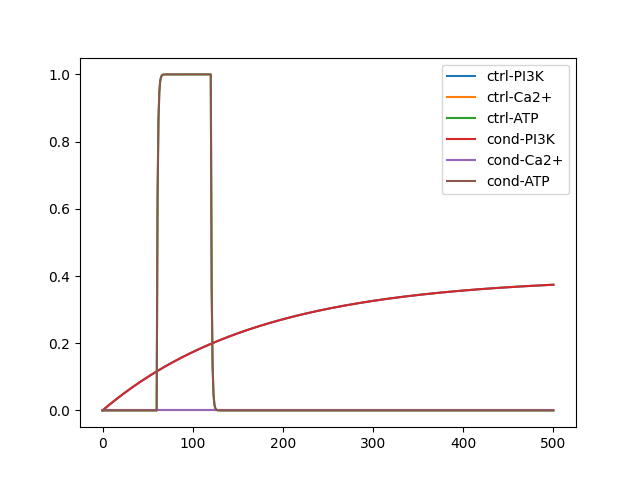
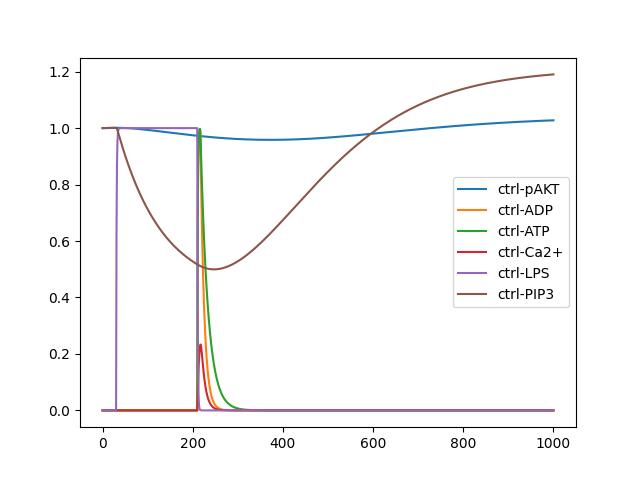
adjusted ca integraation

diff --git a/user_src/testing_calcium.py b/user_src/testing_calcium.py
@@ -37,7 +37,7 @@ if __name__ == "__main__":
     network = Network("example", rates, interactions, substrates)
     
     # visualize network ordinary differential equations
-    time = np.linspace(0, 500, num=501)
+    time = np.linspace(0, 1000, num=1001)
     derivatives = network.get_representation_dydt()
     for l, t in derivatives.items():
         print(f"{l} = {t}")
@@ -49,9 +49,9 @@ if __name__ == "__main__":
             parameters = json.load(fitted_params)
         network.set_parameters(list(parameters.values()), list(parameters.keys()))
 
-    amts = [0]
-    ranges = [[60,120]]
-    initials = [[1, 0, 1, 0, 1, 0, 0, 1, 1, 0, 0, 0, 0, 0, 0, 0, 0, 1, 0, 0]]
+    amts = [1.0]
+    ranges = [[210,390]]
+    initials = [[1, 0, 1, 0, 1, 0, 0, 1, 1, 0, 0, 0, 0, 0, 0, 0, 0, 1, 0, 0, 0]]
     combos = list(P(amts, ranges))
     combo_figure = plt.figure()
     for i, combo in tqdm(enumerate(combos), total=len(amts)*len(ranges)):
@@ -59,16 +59,14 @@ if __name__ == "__main__":
         network.substrates["Ca2+"].time_ranges = [combo[1]]
 
     # check post-training training error
-        mean_y_regular = network.graph_distributions(time, args.number, normalize=False, initials=initials)
+        mean_y_regular = network.graph_distributions(time, args.number, normalize=True, initials=initials)
         print(f"Originally s3 was: {network.parameters['s3'].value}")
-        network.parameters["s3"].value = 20
-        mean_y_decrP2Y12 = network.graph_distributions(time, args.number, normalize=False, initials=initials)
+        mean_y_decrP2Y12 = network.graph_distributions(time, args.number, normalize=True, initials=initials)
         print(f"Adjusted s3 was: {network.parameters['s3'].value}")
-        indices = [list(network.substrates.keys()).index("PI3K"), list(network.substrates.keys()).index("Ca2+"), list(network.substrates.keys()).index("ATP")]
+        indices = [list(network.substrates.keys()).index("pAKT"), list(network.substrates.keys()).index("ATP"), list(network.substrates.keys()).index("Ca2+"), list(network.substrates.keys()).index("ADP"), list(network.substrates.keys()).index("LPS"), list(network.substrates.keys()).index("PIP3")]
         plt.plot(range(len(mean_y_regular[:,indices[0]])), mean_y_regular[:,indices])
-        plt.plot(range(len(mean_y_decrP2Y12[:,indices[0]])), mean_y_decrP2Y12[:,indices])
-    plt.legend(["ctrl-PI3K", "ctrl-Ca2+", "ctrl-ATP", "cond-PI3K", "cond-Ca2+", "cond-ATP"])
+        # plt.plot(range(len(mean_y_decrP2Y12[:,indices[0]])), mean_y_decrP2Y12[:,indices])
+    plt.legend(["ctrl-pAKT", "ctrl-ADP", "ctrl-ATP", "ctrl-Ca2+", "ctrl-LPS", "ctrl-PIP3"])
     combo_figure.savefig(os.path.join(args.output, "./combo_fig.png"))
         # temp_df = pd.DataFrame(mean_y, columns=list(network.substrates.keys()))
         # temp_df.to_csv(os.path.join(args.output, f"atp_{combo[0]}_{combo[1]}"))
-        

diff --git a/src/network.py b/src/network.py
@@ -220,13 +220,17 @@ class Network:
                 dydt[key] = overall
                 del dydt[substrate_id]
             else:
-                pass
-
+                key = f"d[{substrate_id}]/dt"
+                del dydt[substrate_id]
+                if substrate_of_interest.r != None:
+                    dydt[key] = f"-{substrate_of_interest.r.identifier}[{substrate_id}]"
+                else:
+                    dydt[key] = 0
         return dydt
     
     def graph(self, time, normalize=False, substrates_to_plot=[], path="./figure.png", output_figure=False):
         if normalize:
-            normalize_time = np.linspace(0, 500, 501)
+            normalize_time = np.linspace(0, 1000, 1001)
             stimuli_ranges = []
             for s in self.substrates.values():
                 stimuli_ranges.append(s.time_ranges)
@@ -239,7 +243,7 @@ class Network:
             y = folds_y.copy()
             for t in range(y.shape[0]):
                 for index, s in enumerate(self.substrates.values()):
-                    if s.__getattribute__("type") == "non-stimulus":
+                    if s.__getattribute__("type") == "non-stimulus" and probe[index] > 0:
                         y[t,index] = folds_y[t,index]/probe[index]
                     else:
                         y[t, index] = folds_y[t,index]

diff --git a/src/parse.py b/src/parse.py
@@ -3,6 +3,8 @@ from src.rate import Rate
 from src.interaction import Interaction
 from src.substrate import Substrate
 
+# adding two values into one with 1 for each rate is total
+
 def parse_rates(rates_csv_path):
     rates_df = pd.read_csv(rates_csv_path)
     rates = []
